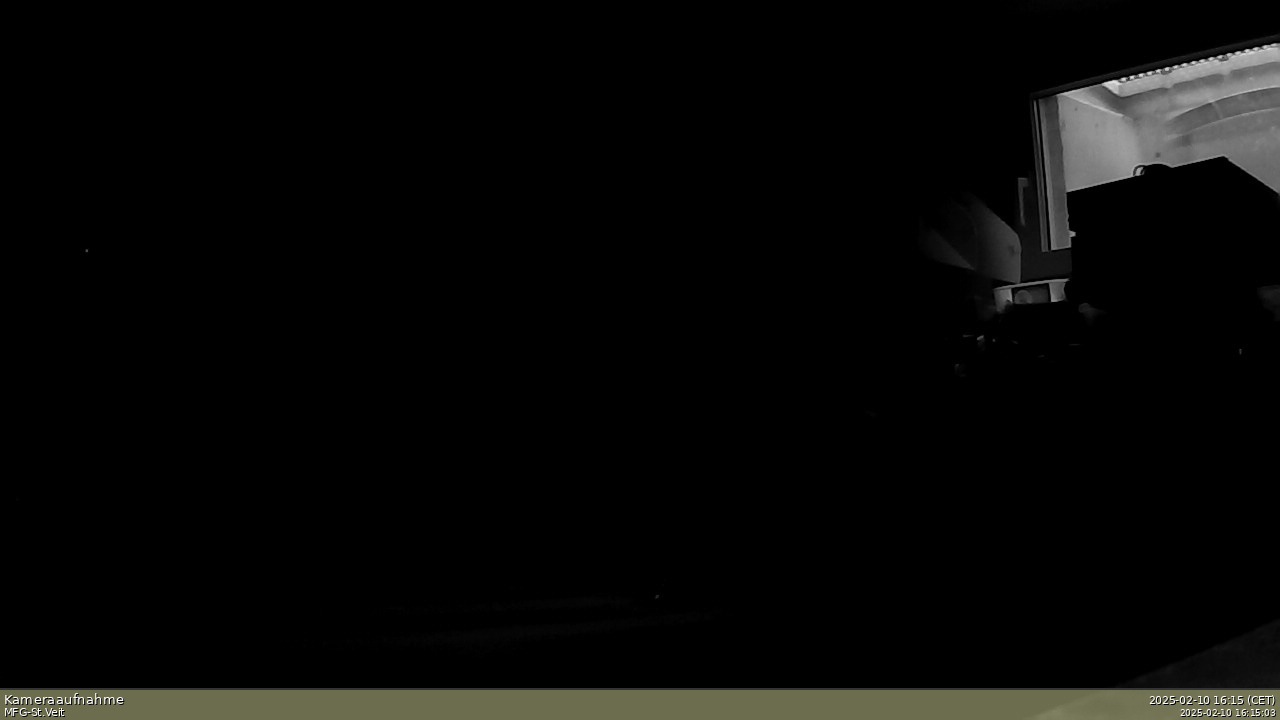
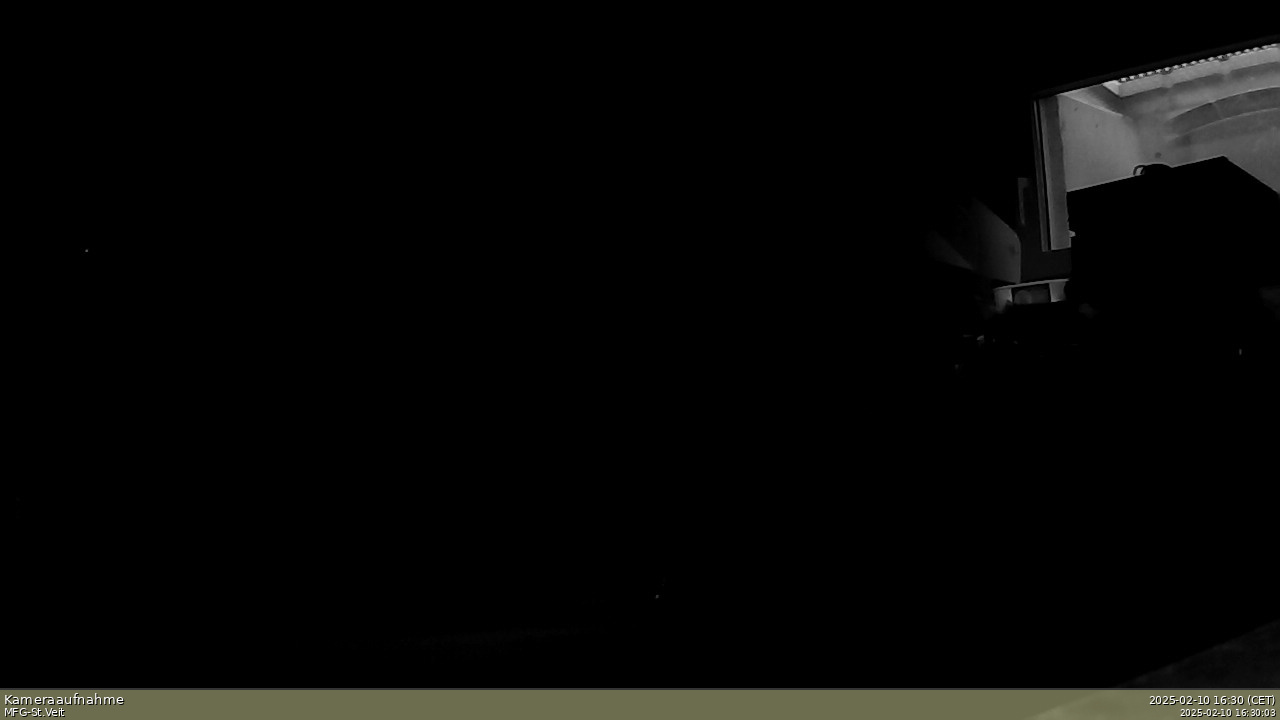
Automatischer Upload: 2025-02-10 16:30:04

Changed region(s): [[0.8125, 0.0611, 1.0, 0.3667], [0.7812, 0.3972, 0.8438, 0.4278]]

diff --git a/index.html b/index.html
@@ -125,7 +125,7 @@
     </div>
 
     <div class="footer">
-        <p>MFG-St.Veit/Glan - aktualisiert am 2025-02-10 16:15:05
+        <p>MFG-St.Veit/Glan - aktualisiert am 2025-02-10 16:30:04
     </div>
 </body>
 </html>
